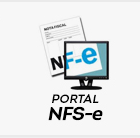
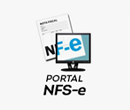
update: melhorias no menu links

diff --git a/assets/styles/style.css b/assets/styles/style.css
@@ -640,16 +640,19 @@ button {
 .conteudo-link .conteudo-link-item {
   width: 30%;
   height: 80px;
-  background-color: #686D76;
+  background-color: #F7F7F7;
   box-shadow: 0 0 2px 1px #000;
 }
 .conteudo-link .conteudo-link-item a {
   width: 100%;
   height: 100%;
+  display: flex;
+  justify-content: center;
+  align-items: center;
+  overflow: hidden;
 }
 .conteudo-link .conteudo-link-item a img {
   width: 100%;
-  height: 100%;
 }
 
 @keyframes flutuar {
@@ -1791,7 +1794,7 @@ button {
   .conteudo .conteudo-link .conteudo-link-item {
     width: 15%;
     height: 110px;
-    background-color: #686D76;
+    background-color: #F7F7F7;
   }
   .conteudo .conteudo-sidebar {
     height: 100%;
@@ -2012,13 +2015,15 @@ button {
   .conteudo .conteudo-link {
     grid-column: 1/3;
     display: grid;
-    grid-template-columns: repeat(6, 1fr);
+    grid-template-columns: repeat(7, 1fr);
+    background-color: #F7F7F7;
+    padding: 0.5em;
   }
   .conteudo .conteudo-link .conteudo-link-item {
-    width: 130px;
-    height: 130px;
-    background-color: #686D76;
+    width: 150px;
+    height: 150px;
     justify-self: center;
+    box-shadow: none;
   }
   .conteudo .conteudo-sidebar {
     height: 100%;
@@ -2246,14 +2251,29 @@ button {
   .conteudo .conteudo-link {
     grid-column: 1/3;
     display: grid;
-    grid-template-columns: repeat(6, 1fr);
+    background-color: #F7F7F7;
+    padding: 0.5em;
   }
   .conteudo .conteudo-link .conteudo-link-item {
-    width: 100%;
-    height: 160px;
-    max-width: 75%;
-    background-color: #686D76;
     justify-self: center;
+    box-shadow: none;
+    width: 100%;
+    height: 100%;
+    display: flex;
+  }
+  .conteudo .conteudo-link .conteudo-link-item a {
+    width: 100%;
+    height: 100%;
+    display: flex;
+  }
+  .conteudo .conteudo-link .conteudo-link-item a:hover {
+    border: solid 1px #075237;
+    scale: 1.1;
+    transition: 0.6s ease;
+  }
+  .conteudo .conteudo-link .conteudo-link-item a img {
+    height: 100%;
+    width: auto;
   }
   .conteudo .conteudo-sidebar {
     height: 100%;

diff --git a/assets/styles/media/_media1440px.sass b/assets/styles/media/_media1440px.sass
@@ -58,13 +58,25 @@
         .conteudo-link
             grid-column: 1/3
             display: grid
-            grid-template-columns: repeat(6, 1fr)
+            background-color: $branco-2
+            padding: .5em
             .conteudo-link-item
+                justify-self: center
+                box-shadow: none
                 width: 100%
-                height: 160px
-                max-width: 75%
-                background-color: $cinza-escuro
-                justify-self: center 
+                height: 100%
+                display: flex
+                a
+                    width: 100%
+                    height: 100%
+                    display: flex
+                    &:hover
+                        border: solid 1px $verde-2
+                        scale: 1.1
+                        transition: .6s ease
+                    img
+                        height: 100%
+                        width: auto
         .conteudo-sidebar
             height: 100%
             width: 70%
@@ -74,7 +86,7 @@
             row-gap: .5em
             .conteudo-sidebar-item
                 &:hover
-                    ul 
+                    ul
                         width: 300px
                         li
                             height: 42px
@@ -118,7 +130,7 @@
                             justify-content: center
                             width: 100%
                             img
-                                max-width: 90% 
+                                max-width: 90%
                         .conteudo-aniversariantes-item-textos
                             p
                                 &:nth-child(1)

diff --git a/assets/styles/media/_media1024px.sass b/assets/styles/media/_media1024px.sass
@@ -50,12 +50,14 @@
         .conteudo-link
             grid-column: 1/3
             display: grid
-            grid-template-columns: repeat(6, 1fr)
+            grid-template-columns: repeat(7, 1fr)
+            background-color: $branco-2
+            padding: .5em
             .conteudo-link-item
-                width: 130px
-                height: 130px
-                background-color: $cinza-escuro
+                width: 150px
+                height: 150px
                 justify-self: center
+                box-shadow: none
         .conteudo-sidebar
             height: 100%
             width: 75%
@@ -99,7 +101,7 @@
                             justify-content: center
                             width: 100%
                             img
-                                max-width: 90% 
+                                max-width: 90%
                         .conteudo-aniversariantes-item-textos
                             p
                                 &:nth-child(1)

diff --git a/index.html b/index.html
@@ -226,6 +226,9 @@
                 <a href="#"><img src="./assets/imgs/declaracao_issqn.png" alt=""></a>
             </li>
             <li class="conteudo-link-item">
+                <a href="#"><img src="./assets/imgs/ouvidoria_municipal.png" alt=""></a>
+            </li>
+            <li class="conteudo-link-item">
                 <a href="#"><img src="./assets/imgs/portal_nfse.png" alt=""></a>
             </li>
         </ul>
@@ -2217,6 +2220,9 @@
                 <ul class="submenu">
                     <li>
                         <a href="#">Transparência</a>
+                    </li>
+                    <li>
+                        <a href="#">Solicitar Olerite</a>
                     </li>
                     <li>
                         <a href="#">Licitações</a>

diff --git a/assets/styles/components/_conteudoLinks.sass b/assets/styles/components/_conteudoLinks.sass
@@ -9,11 +9,14 @@
     .conteudo-link-item
         width: 30%
         height: 80px
-        background-color: $cinza-escuro
+        background-color: $branco-2
         box-shadow: 0 0 2px 1px $preto
         a
             width: 100%
             height: 100%
+            display: flex
+            justify-content: center
+            align-items: center
+            overflow: hidden
             img
                 width: 100%
-                height: 100%

diff --git a/assets/styles/media/_media768px.sass b/assets/styles/media/_media768px.sass
@@ -51,7 +51,7 @@
             .conteudo-link-item
                 width: 15%
                 height: 110px
-                background-color: $cinza-escuro
+                background-color: $branco-2
         .conteudo-sidebar
             height: 100% 
             width: 90%

diff --git a/assets/styles/abstract/_variaveis.sass b/assets/styles/abstract/_variaveis.sass
@@ -6,6 +6,7 @@ $fonte-secundaria: "Roboto", sans-serif
 
 // cores
 $branco: #fff
+$branco-2: #F7F7F7
 $preto: #000
 $verde-1: #0A6847
 $verde-2: #075237
